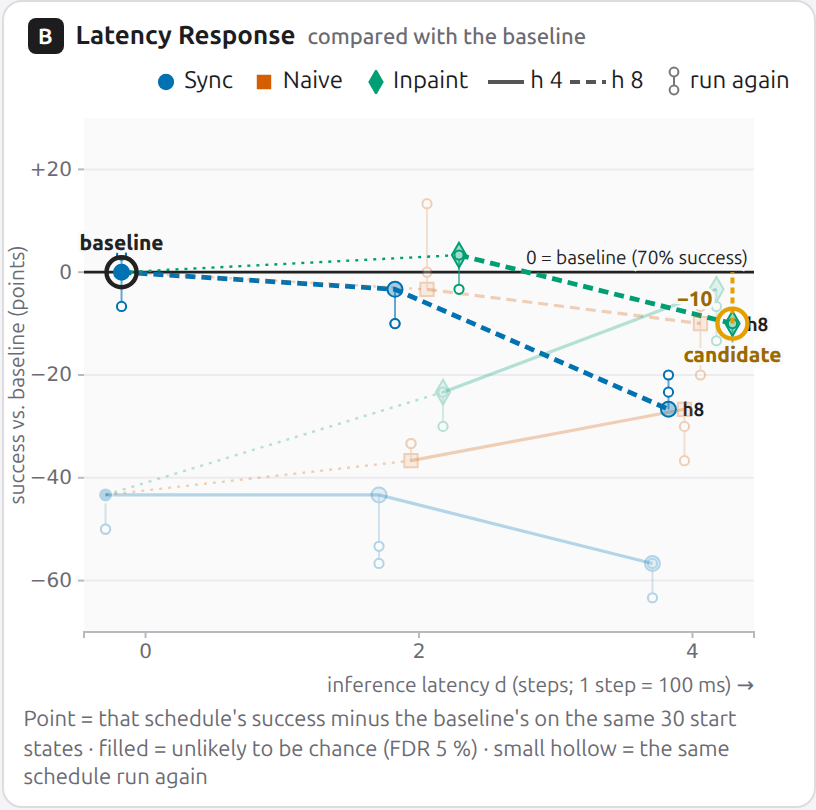
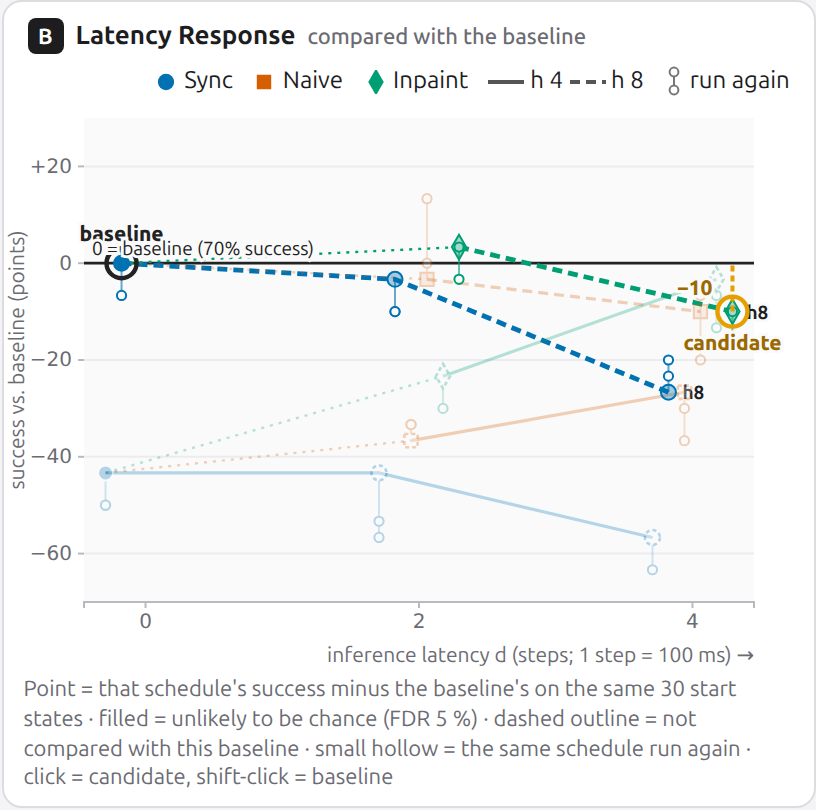
Review 4 fixes: wording that matches the comparison rule, fill = significance only, readable at 1280 px
- A/B: a non-significant pair says "not established with 30 start states (q = …)" and whether the re-runs point the same way, instead of "within chance"
- A: the "not compared" reason states the actual rule (same latency, or across latencies the same h with the same strategy or d = 0); FDR legend hidden when nothing is tested; cost colour scale at the 75th percentile so one extreme schedule does not wash out the rest; shorter note so the matrix is readable at 1280x800
- B: fill means "tested and significant" only; pairs that are not compared are dashed outlines; zero-line label placed where no point is; shift-click named in the note
- refusal notice clears on the next deliberate change; guide defines chunk, h, inpaint and FDR and states the rule
- C header text over the median ticks; D jump label over the pusher; E threshold label halo; URL t clamped; true minus signs; min page width 1280 px

diff --git a/src/js/views/pairs.js b/src/js/views/pairs.js
@@ -20,9 +20,11 @@ function scale() {
   const key = `${DATA.task}|${state.metric}`;
   if (scaleCache.key !== key) {
     const ids = DATA.schedules.map((x) => x.schedule);
-    let mx = 1;
-    for (const a of ids) for (const b of ids) if (a < b && comparable(a, b)) mx = Math.max(mx, Math.abs(aggregate(b, state.metric, null, a).v));
-    scaleCache = { key, v: mx };
+    // 75th percentile of |difference| over the comparable pairs, so that one extreme schedule (Catch
+    // naive d4 h4 jumps) does not wash out every other cell; larger values take the end colour
+    const vs = [];
+    for (const a of ids) for (const b of ids) if (a < b && comparable(a, b)) vs.push(Math.abs(aggregate(b, state.metric, null, a).v));
+    scaleCache = { key, v: Math.max(1, d3.quantile(vs.sort(d3.ascending), 0.75)) };
   }
   return scaleCache.v;
 }
@@ -32,7 +34,7 @@ let root, svg, noteSel;
 export function initPairs() {
   root = d3.select("#pairs");
   svg = root.append("svg");
-  // hatch for the pairs that are not compared (differ in latency and in strategy or h)
+  // hatch for the pairs that are not compared (see data.comparable)
   svg.append("defs").append("pattern").attr("id", "nc").attr("patternUnits", "userSpaceOnUse").attr("width", 5).attr("height", 5)
     .attr("patternTransform", "rotate(45)").append("rect").attr("width", 1.2).attr("height", 5).attr("fill", "#d4d4da");
   noteSel = d3.select("#pairNote");
@@ -44,8 +46,8 @@ export function initPairs() {
   seg.selectAll("button").data([null, 2, 4]).join("button").text((d) => (d === null ? "all latencies" : `d = ${d}`))
     .on("click", (ev, d) => update({ dfocus: d }));
   ctr.select(".plgwrap").html(`<span class="plg" title="candidate − baseline, percentage points of success on the same start states"><span class="it"><span class="lo"></span> <span class="ramp"></span> <span class="hi"></span></span>
-    <span class="it"><span class="fr"></span><span class="fam">unlikely chance (FDR 5 %)</span></span>
-    <span class="it" title="the two schedules differ in latency d (which you cannot choose) and also in h or in strategy, so a difference could not be attributed to one cause"><span class="nc"></span>not compared</span>
+    <span class="it fritem"><span class="fr"></span><span class="fam">unlikely chance (FDR 5 %)</span></span>
+    <span class="it" title="compared: two schedules at the same latency d (a choice you can make), or the same strategy and h at two latencies (what more latency costs), or a schedule against d = 0 at the same h (how far it is from having no latency; at d = 0 all strategies are the same). Every other pair mixes two causes."><span class="nc"></span>not compared</span>
     <span class="it"><span class="cu"></span>current pair</span>
     <span class="it"><b>row</b>&nbsp;= baseline · <b>column</b>&nbsp;= candidate</span></span>`);
   bus.on("change.pairs", (keys) => {
@@ -81,7 +83,7 @@ function render() {
     cells.push({ r, c, v: a.v, lo: a.lo, hi: a.hi, n: a.n, f, sig: !!f && f.sig });
   }
   const M = scale(), Mt0 = METRICS[state.metric];
-  const lim = Mt0.pct ? "60" : `${Math.round(M)} px`;
+  const lim = Mt0.pct ? "60" : `${Math.round(M)} px or more`;
   d3.select("#pairControls .lo").text(isSuccess() ? `worse −${lim}` : `pays more +${lim}`);
   d3.select("#pairControls .hi").text(isSuccess() ? `+${lim} better` : `−${lim} pays less`);
   const col = (v) => {
@@ -89,12 +91,13 @@ function render() {
     return t >= 0 ? d3.interpolateRgb(MID, BETTER)(t) : d3.interpolateRgb(MID, WORSE)(-t);
   };
 
+  d3.select("#pairControls .fritem").style("display", isSuccess() && !seeds ? null : "none");
   d3.select("#pairControls .dseg").selectAll("button").classed("on", (d) => d === state.dfocus);
   d3.select("#pairControls .fam").attr("title", `exact McNemar test on the start states that flip, Benjamini–Hochberg corrected over the ${qValues().size} comparable pairs (false discovery rate 5 %)`);
   noteSel.html((state.blocked ? `<span class="moved">${state.blocked}</span> · ` : "") + (seeds
     ? `Cell = ${isSuccess() ? "success" : Mt0.btn.toLowerCase()} difference on the <b>${seeds.size} start states selected in C</b> · <b>no frames</b>: the selection was made from these outcomes, so testing it again would be circular (Esc clears)`
-    : `${isSuccess() ? `Cell = how much more often the candidate succeeds than the baseline on the same ${DATA.seeds.length} start states (number = points when there is room)`
-      : `Cell = how much less (purple) or more (grey) the candidate pays than the baseline: <b>${Mt0.label}</b>, mean over the same ${DATA.seeds.length} start states · no frames: only success is tested`} · <b>click a cell</b> to compare that pair · hatched = not compared (differ in latency <i>and</i> in h or strategy)`));
+    : `${isSuccess() ? `Cell = candidate's success minus the baseline's on the same ${DATA.seeds.length} start states`
+      : `Cell = how much less (purple) or more (grey) the candidate pays: <b>${Mt0.label}</b> · no frames: costs are not tested`} · <b>click a cell</b> to compare · hatched: see the legend`));
   const { w, h } = size(root.node());
   svg.attr("width", w).attr("height", h);
   const m = { l: 70, t: 50, r: 6, b: 4 };
@@ -154,8 +157,8 @@ function render() {
     showTip(ev, `<b>baseline</b> ${label(q.r.id)}<br><b>candidate</b> ${label(q.c.id)}<br>
       ${Mt.label}: ${fmtMetric(state.metric, aggregate(q.r.id, state.metric, seeds).v)} → ${fmtMetric(state.metric, aggregate(q.c.id, state.metric, seeds).v)}
       (paired ${fmtMetric(state.metric, q.v, true)}${rel ? "" : `, 95 % interval ${fmtMetric(state.metric, q.lo, true)} … ${fmtMetric(state.metric, q.hi, true)}`})<br>
-      ${rel ? `on the same start states: <b>${rel.gain} rescued</b>, <b>${rel.loss} lost</b> of ${rel.n} (McNemar p = ${rel.p < 0.001 ? "< 0.001" : rel.p.toFixed(3)}, corrected q = ${rel.q < 0.001 ? "< 0.001" : rel.q.toFixed(3)}) <br>${rel.chance}<br>` : ""}
-      ${!rel ? "costs are described, not tested: only success has a test" : seeds ? "no test on a selection made from the outcomes" : q.sig ? `<b>${better ? "candidate better" : "candidate worse"}, unlikely to be chance</b> (FDR 5 %)` : `difference within chance (after correcting for ${qValues().size} comparisons)`}<br><span class="k">click = compare this pair in all views</span>`);
+      ${rel ? `on the same start states: <b>${rel.gain} rescued</b>, <b>${rel.loss} lost</b> of ${rel.n} (McNemar p ${rel.p < 0.001 ? "< 0.001" : `= ${rel.p.toFixed(3)}`}, corrected q ${rel.q < 0.001 ? "< 0.001" : `= ${rel.q.toFixed(3)}`}) <br>${rel.chance}<br>` : ""}
+      ${!rel ? "costs are described, not tested: only success has a test" : seeds ? "no test on a selection made from the outcomes" : q.sig ? `<b>${better ? "candidate better" : "candidate worse"}, unlikely to be chance</b> (FDR 5 %)` : `<b>not established</b> with ${rel.n} start states (q = ${rel.q.toFixed(2)} after correcting for ${qValues().size} comparisons)${rel.agree ? ` · the re-runs point the same way (${rel.agree})` : ""}`}<br><span class="k">click = compare this pair in all views</span>`);
   }).on("mouseleave", hideTip)
     .on("click", (ev, q) => { if (!q.diag && !q.nc) { hideTip(); update({ ref: q.r.id, cand: q.c.id }); } });
 
@@ -168,7 +171,7 @@ function render() {
 
 }
 
-// Every comparable unordered pair of schedules (61 of the 91 for 14, see data.comparable) is one exact
+// Every comparable unordered pair of schedules (49 of the 91 for 14, see data.comparable) is one exact
 // McNemar test; the frames use Benjamini–Hochberg q-values over that family, so about 1 in 20 framed cells may be a false
 // discovery instead of 1 in 20 of all cells. Computed once per task on all start states.
 let qCache = { task: null, q: new Map() };
@@ -206,12 +209,16 @@ function rawFlips(r, c, seeds) {
   // the yardstick for chance: what a plain re-run of each schedule changes, and whether the
   // difference of the pair comes back when both schedules are run again
   const fr = rerunFlips(r, seeds), fc = rerunFlips(c, seeds);
-  const again = reruns(r).map((id, k) => [id, reruns(c)[k]]).filter(([a, b]) => a && b)
-    .map(([a, b]) => { const v = aggregate(b, "success_rate", seeds, a).v; return `${v > 0 ? "+" : v < 0 ? "−" : "±"}${Math.abs(Math.round(v * 100))}`; });
+  const againV = reruns(r).map((id, k) => [id, reruns(c)[k]]).filter(([a, b]) => a && b)
+    .map(([a, b]) => Math.round(aggregate(b, "success_rate", seeds, a).v * 100));
+  const again = againV.map((k) => `${k > 0 ? "+" : k < 0 ? "−" : "±"}${Math.abs(k)}`);
+  // do the re-runs show the same direction as run 0 (and not zero)?
+  const d0 = Math.sign(gain - loss);
+  const agree = d0 && againV.length && againV.every((k) => Math.sign(k) === d0) ? `${d0 > 0 ? "candidate better" : "candidate worse"} in all ${againV.length + 1} runs` : null;
   const f1 = (v) => (Number.isInteger(v) ? v : v.toFixed(1));
   const chance = fr === null || fc === null ? "no re-runs of these schedules yet"
     : `chance level: a plain re-run flips ${f1(fr)} start states of the baseline and ${f1(fc)} of the candidate${again.length ? ` · the same pair in the re-runs: <b>${again.join(", ")}</b> points` : ""}`;
-  return { gain, loss, n: S.length, chance, p: mcnemar(gain, loss) };
+  return { gain, loss, n: S.length, chance, agree, p: mcnemar(gain, loss) };
 }
 
 // exact two-sided McNemar test = binomial sign test on the discordant start states

diff --git a/src/js/views/response.js b/src/js/views/response.js
@@ -54,7 +54,7 @@ function points() {
     // its plain re-runs on the same scale: their success minus the baseline's (run 0)
     const re = reruns(s.schedule).map((k) => aggregate(k, state.metric, state.brushed).v).filter((v) => v !== null);
     out.push({ id: s.schedule, strat: s.strategy, d: s.latency, h: s.horizon, abs: a.v, n: a.n,
-      v: dl.v, re, reAbs: re, f, sig: isS() ? !!f && f.sig : true });
+      v: dl.v, re, reAbs: re, f, sig: isS() && !!f && f.sig, nt: !!f && !f.comparable });
   }
   return out;
 }
@@ -75,7 +75,7 @@ function render() {
   for (const p of pts) p.re = p.reAbs.map((v) => v - base);
   noteSel.html(state.brushed
     ? `${isS() ? "Success" : Mt.btn} minus the baseline's on the <b>${n} start states selected in C</b> (Esc clears)${isS() ? " · nothing filled: the selection was made from the outcomes" : ""}`
-    : `Point = that schedule's ${what} minus the baseline's on the same ${n} start states · ${isS() ? "filled = unlikely to be chance (FDR 5 %)" : `<b>${Mt.label}</b>: higher = pays more (costs are described, not tested)`} · small hollow = the same schedule run again`);
+    : `Point = that schedule's ${what} minus the baseline's on the same ${n} start states · ${isS() ? "filled = unlikely to be chance (FDR 5 %) · dashed outline = not compared with this baseline" : `<b>${Mt.label}</b>: higher = pays more (costs are described, not tested, so nothing is filled)`} · small hollow = the same schedule run again · click = candidate, shift-click = baseline`);
   const m = { l: 40, r: 30, t: 10, b: 34 };
   const x = d3.scaleLinear().domain([-0.45, LATENCIES[LATENCIES.length - 1] + 0.45]).range([m.l, w - m.r]);
   // the scale covers exactly 0 … 100 % success, shifted so that the baseline sits at 0
@@ -146,10 +146,11 @@ function render() {
     .attr("cy", (q) => y(q.v)).attr("r", 2.3).attr("fill", "#fafafb").attr("stroke", (q) => STRAT_COLOR[q.strat]).attr("stroke-width", 1);
   mk.select(".sym").attr("transform", (p) => `translate(0,${y(p.v)})`)
     .attr("d", (p) => d3.symbol(STRAT_SYMBOL[p.strat], 44)())
-    .attr("fill", (p) => STRAT_COLOR[p.strat])
-    .attr("fill-opacity", (p) => (p.sig || p.id === state.ref ? 1 : 0.35))
+    .attr("fill", (p) => (p.nt ? "#fafafb" : STRAT_COLOR[p.strat]))
+    .attr("fill-opacity", (p) => (p.nt ? 1 : p.sig || p.id === state.ref ? 1 : 0.35))
     .attr("stroke", (p) => (p.sig ? "#fff" : STRAT_COLOR[p.strat]))
-    .attr("stroke-width", 1);
+    .attr("stroke-dasharray", (p) => (p.nt ? "2 1.5" : null))
+    .attr("stroke-width", (p) => (p.nt ? 1.3 : 1));
   mk.select(".hit").attr("cy", (p) => y(p.v)).attr("r", 6).attr("fill", "transparent");
   mk.on("click", (ev, p) => (ev.shiftKey ? update({ ref: p.id }) : update({ cand: p.id })))
     .on("mouseenter", (ev, p) => { hoverStrat = p.strat; render(); })
@@ -186,11 +187,21 @@ function render() {
     .text((r) => (r.k === "cand" && Math.abs(y(0) - y(r.p.v)) > 16 ? pts100(r.p.v) : ""));
 
   // the zero-line label goes to the side away from the baseline's own point
-  const refP = pts.find((p) => p.id === state.ref);
-  const zLeft = refP && px(refP) > (m.l + w - m.r) / 2;
-  svg.selectAll("text.zl").data([0]).join("text").attr("class", "zl").attr("x", zLeft ? m.l + 4 : w - m.r - 3).attr("text-anchor", zLeft ? "start" : "end").attr("y", y(0) + (y(0) - m.t < 16 ? 12 : -4))
+  const zText = `0 = baseline (${fmtMetric(state.metric, base)}${isS() ? " success" : Mt.pct ? " idle" : " px"})`;
+  const zw = zText.length * 5.3;
+  const spots = [];
+  for (const below of [false, true]) for (const left of [true, false]) {
+    const ty = y(0) + (below ? 12 : -4);
+    if (ty - 10 < m.t || ty > h - m.b) continue;
+    const x0 = left ? m.l + 4 : w - m.r - 3 - zw;
+    const hits = pts.flatMap((p) => [p.v, ...p.re].map((v) => [px(p), y(v)]))
+      .filter(([qx, qy]) => qx > x0 - 7 && qx < x0 + zw + 7 && qy > ty - 15 && qy < ty + 6).length;
+    spots.push({ left, ty, hits });
+  }
+  const zs = spots.sort((a, b) => a.hits - b.hits)[0] ?? { left: true, ty: y(0) - 4 };
+  svg.selectAll("text.zl").data([0]).join("text").attr("class", "zl").attr("x", zs.left ? m.l + 4 : w - m.r - 3).attr("text-anchor", zs.left ? "start" : "end").attr("y", zs.ty)
     .attr("font-size", 9.5).attr("fill", COLOR.ref).attr("stroke", "#fafafb").attr("stroke-width", 3).attr("paint-order", "stroke")
-    .text(`0 = baseline (${fmtMetric(state.metric, base)}${isS() ? " success" : Mt.pct ? " idle" : " px"})`);
+    .text(zText);
   svg.selectAll("text.xt").data([0]).join("text").attr("class", "axis-title xt").attr("x", w - m.r).attr("y", h - 4)
     .attr("text-anchor", "end").text("inference latency d (steps; 1 step = 100 ms) →");
 }
@@ -201,7 +212,7 @@ function tipHtml(p) {
   else {
     html += `<br><span class="k">vs baseline:</span> <b>${pts100(p.v)} ${METRICS[state.metric].pct ? "points" : "px"}</b> <span class="k">on the same start states</span>`;
     if (p.f && !p.f.comparable) html += `<br>${p.f.gain} rescued, ${p.f.loss} lost · <b>not tested</b>: ${whyNot(state.ref, p.id)} (read it along its own line; it cannot be chosen as candidate)`;
-    else if (p.f) html += `<br>${p.f.gain} rescued, ${p.f.loss} lost (McNemar p ${p.f.p < 0.001 ? "< 0.001" : `= ${p.f.p.toFixed(3)}`}, corrected q ${p.f.q < 0.001 ? "< 0.001" : `= ${p.f.q.toFixed(3)}`}) · <b>${state.brushed ? "no test on a selection made from the outcomes" : p.sig ? "unlikely to be chance" : "within chance"}</b>`;
+    else if (p.f) html += `<br>${p.f.gain} rescued, ${p.f.loss} lost (McNemar p ${p.f.p < 0.001 ? "< 0.001" : `= ${p.f.p.toFixed(3)}`}, corrected q ${p.f.q < 0.001 ? "< 0.001" : `= ${p.f.q.toFixed(3)}`}) · <b>${state.brushed ? "no test on a selection made from the outcomes" : p.sig ? "unlikely to be chance" : `not established with ${p.f.n} start states`}</b>${!state.brushed && !p.sig && p.f.agree ? ` · the re-runs point the same way (${p.f.agree})` : ""}`;
   }
   if (p.reAbs.length) html += `<br><span class="k">the same schedule run again:</span> ${p.reAbs.map((v) => fmtMetric(state.metric, v)).join(", ")} <span class="k">(hollow marks)</span>`;
   if (p.strat !== "sync" && p.d === 0) html += `<br><span class="k">${missingReason(p.strat, 0, p.h)}</span>`;

diff --git a/src/index.html b/src/index.html
@@ -80,10 +80,10 @@
 <div id="guide" class="guide" hidden>
   <div class="guide-card">
     <h2>How to read LagLens</h2>
-    <p>A robot policy plans 16 moves at a time and needs time <i>d</i> to compute each plan. <span class="tS">Sync</span> waits while it thinks; <span class="tN">naive async</span> keeps moving and switches plans abruptly; <span class="tI">inpaint async</span> keeps moving and makes the new plan continue the old one.
+    <p>A robot policy plans 16 moves at a time (a <b>chunk</b>) and needs time <i>d</i> (latency, in steps of 100 ms) to compute each plan; the robot executes the first <i>h</i> moves (<b>horizon</b> 4 or 8) and then switches to the next plan. <span class="tS">Sync</span> waits while it thinks; <span class="tN">naive async</span> keeps moving and switches plans abruptly; <span class="tI">inpaint async</span> keeps moving and makes the new plan continue the old one (the start of the new plan is filled in from the old one).
       Every <b>schedule</b> (strategy × latency <i>d</i> × horizon <i>h</i>) was run from the <b>same 30 start states</b>, on two tasks: <b>PushT</b> (push a T-block onto a goal) and <b>Catch the ball</b> (touch a rolling ball within 8 s).</p>
     <ol>
-      <li><b>A Pair Overview</b>, start here: each cell compares two schedules (row = baseline, column = candidate). <span style="color:#5e3c99;font-weight:700">Purple</span> = the candidate succeeds more often on the same start states, grey = less; framed = unlikely to be chance. Hatched = not compared: the two differ in latency (which you cannot choose) and also in <i>h</i> or strategy. <b>Click a cell</b> to compare that pair.</li>
+      <li><b>A Pair Overview</b>, start here: each cell compares two schedules (row = baseline, column = candidate). <span style="color:#5e3c99;font-weight:700">Purple</span> = the candidate succeeds more often on the same start states, grey = less. Compared are schedules at the same latency (a choice you can make), the same strategy and <i>h</i> at two latencies (what more latency costs), and any schedule against <i>d</i> = 0 at the same <i>h</i> (at <i>d</i> = 0 all strategies are the same). The rest is hatched: it mixes two causes. On PushT, <i>h</i> alone matters a lot (sync at <i>d</i> = 0: 27 % at <i>h</i> = 4, 70 % at <i>h</i> = 8), which is why <i>h</i> is only compared with the same <i>h</i> across latencies. Framed = still unlikely to be chance after correcting for the 49 comparisons (false discovery rate 5 %). <b>Click a cell</b> to compare that pair.</li>
       <li><b>B</b>: every schedule against the chosen baseline (0 = baseline), by latency <i>d</i> and horizon <i>h</i>. Small hollow marks = the same schedule simply run again: the spread that chance alone produces.</li>
       <li><b>C</b>: the 30 start states of that pair, the ones that flip first. Narrow cells = the same schedule run again; <b>≈</b> = the outcome is not the same in every run. Right: what each schedule paid there (idle time, outdated plan, or jumps). Click a row to replay it.</li>
       <li><b>D</b>: the replay, baseline and candidate on one board, opened at the moment that most likely explains the pair: the plan being executed, where things were when it was planned, and jumps when the plan switches.</li>

diff --git a/src/js/views/seedtable.js b/src/js/views/seedtable.js
@@ -98,7 +98,7 @@ function render() {
   const solid = flipsN.filter((s) => !noisy.has(s)).length;
   const fr = rerunFlips(state.ref), fc = rerunFlips(state.cand), f1 = (v) => (Number.isInteger(v) ? v : v.toFixed(1));
   d3.select("#seedNote").html(`<b>${cnt.get("gain") || 0} rescued</b>, <b>${cnt.get("loss") || 0} lost</b> of ${DATA.seeds.length} start states
-    ${nRe ? `· <b>${solid} of these ${flipsN.length} flips</b> come back in all ${nRe + 1} runs of both schedules; <b>≈</b> marks the others · a plain re-run alone flips ${f1(fr)} (baseline) and ${f1(fc)} (candidate) start states` : ""}`);
+    ${nRe ? `· <b>${solid} of these ${flipsN.length} flips</b> come back in all ${nRe + 1} runs of both schedules; <b>≈</b> marks the others · <span style="white-space:nowrap">a plain re-run alone flips ${f1(fr)} (baseline) and ${f1(fc)} (candidate) start states</span>` : ""}`);
   const ck = costKey(), C = COSTS[ck], k = C.k;
   ctrSel.select(".ctext").html(`row = start state · <span class="sw okb"></span><span class="sw okc"></span> success under baseline / candidate, empty = failure${nRe ? " · narrow = run again" : ""} · right: what each run paid (<b>${C.btn.toLowerCase()}</b>)`);
   const { w, h } = size(root.node());
@@ -201,12 +201,14 @@ function render() {
   const med = (g, which) => d3.median(g.seeds, (s) => DATA.ep.get(which).get(s)[k]);
   const bh = svg.selectAll("g.band").data(bands, (g) => g.key).join((en) => {
     const q = en.append("g").attr("class", "band").style("cursor", "pointer");
-    q.append("rect").attr("class", "bb"); q.append("text").attr("class", "bt");
-    q.append("line").attr("class", "mr"); q.append("line").attr("class", "mc");
+    // the text is drawn over the median ticks with a halo, so a tick never strikes through it
+    q.append("rect").attr("class", "bb"); q.append("line").attr("class", "mr"); q.append("line").attr("class", "mc");
+    q.append("text").attr("class", "bt");
     return q;
   }).attr("transform", (g) => `translate(0,${g.y})`).raise();
   bh.select(".bb").attr("x", 2).attr("y", 1).attr("width", w - 4).attr("height", L.headH - 2).attr("rx", 3).attr("fill", "#f2f2f5");
   bh.select(".bt").attr("x", 6).attr("y", L.headH - 4).attr("font-size", 10).attr("font-weight", 700)
+    .attr("stroke", "#f2f2f5").attr("stroke-width", 4).attr("paint-order", "stroke").attr("stroke-linejoin", "round")
     .text((g) => { const z = g.seeds.filter((x) => noisy.has(x)).length; return `${g.name}  ${g.seeds.length}${z && (g.key === "gain" || g.key === "loss") ? `  (≈ ${z} not repeatable)` : ""}`; });
   for (const [cls, which, col] of [["mr", state.ref, COLOR.ref], ["mc", state.cand, COLOR.cand]]) {
     bh.select(`.${cls}`).attr("x1", (g) => x(med(g, which))).attr("x2", (g) => x(med(g, which))).attr("y1", 2).attr("y2", L.headH - 1)

diff --git a/src/js/views/timeline.js b/src/js/views/timeline.js
@@ -164,7 +164,7 @@ function render() {
   cg.select(".yax").attr("transform", `translate(${m.l},0)`).call(d3.axisLeft(yc).ticks(2).tickSize(3).tickFormat(ball ? (v) => `${v} px` : d3.format(".0%"))).call((q) => q.select(".domain").remove());
   cg.select(".xax").attr("transform", `translate(0,${covBot})`).call(d3.axisBottom(x).ticks(10).tickSize(3)).call((q) => q.select(".domain").attr("stroke", "#c9c9cf"));
   cg.select(".thr").attr("x1", m.l).attr("x2", w - m.r).attr("y1", yc(thr)).attr("y2", yc(thr)).attr("stroke", "#77777f").attr("stroke-dasharray", "4 3");
-  cg.select(".thrt").attr("x", m.l + 4).attr("y", yc(thr) - 3).attr("text-anchor", "start").text(ball ? "touch: within 40 px" : "success threshold 95 %");
+  cg.select(".thrt").attr("x", m.l + 4).attr("y", yc(thr) - 4).attr("stroke", "#fff").attr("stroke-width", 3).attr("paint-order", "stroke").attr("text-anchor", "start").text(ball ? "touch: within 40 px" : "success threshold 95 %");
   cg.select(".yt").attr("x", 4).attr("y", covTop - 8).text(ball ? "pusher–ball distance" : "block–goal coverage");
   svg.selectAll("text.xt").data([0]).join("text").attr("class", "xt axis-title").attr("x", w - m.r).attr("y", h - 2).attr("text-anchor", "end")
     .text("time step t (10 Hz) · drag = select window · click = move cursor");

diff --git a/src/js/views/workspace.js b/src/js/views/workspace.js
@@ -79,7 +79,11 @@ async function load() {
   slider.attr("max", maxN - 1);
   d3.select("#seedLabel").text(`start state ${state.seed}`);
   opened = keyMoment(eps.ref, eps.cand);
-  if (keepUrlT || state.win) { keepUrlT = false; render(); return; }
+  if (keepUrlT || state.win) {
+    keepUrlT = false;
+    if (state.t > maxN - 1) update({ t: maxN - 1 }); else render();  // a URL t past the end goes to the last step
+    return;
+  }
   const t0 = opened ? opened.t : 0;
   if (t0 !== state.t) update({ t: t0 }); else render();
 }
@@ -137,8 +141,8 @@ function render() {
     g.append("path").attr("class", "pathNow");
     g.append("path").attr("class", "pathWin");
     g.append("g").attr("class", "fan");
-    g.append("g").attr("class", "seam").attr("pointer-events", "none");
     g.append("circle").attr("class", "agent").attr("pointer-events", "none"); // agent and seam never block hover on plan points
+    g.append("g").attr("class", "seam").attr("pointer-events", "none");  // over the pusher, so its label stays readable
     return g;
   }).attr("opacity", lit);
   // the focused run is drawn on top

diff --git a/src/js/main.js b/src/js/main.js
@@ -21,7 +21,12 @@ function firstFlip(ref, cand) {
 // comparable is not applied and A says why; nothing is changed behind the user's back. A cell in A
 // sets both sides at once, so every comparable pair is one click away.
 function keepComparable(patch, st) {
-  if (!("ref" in patch) && !("cand" in patch)) return patch;
+  // the refusal note lasts until the next deliberate change (a seed, a selection, a time window, the
+  // question, the task or "my latency"); hovering and the replay moving its cursor keep it
+  if (!("ref" in patch) && !("cand" in patch)) {
+    const deliberate = ["seed", "brushed", "win", "metric", "task", "dfocus"].some((k) => k in patch);
+    return st.blocked && deliberate && !("blocked" in patch) ? { ...patch, blocked: null } : patch;
+  }
   const ref = patch.ref ?? st.ref, cand = patch.cand ?? st.cand;
   if (comparable(ref, cand)) return { ...patch, blocked: null };
   const out = { ...patch };

diff --git a/src/js/data.js b/src/js/data.js
@@ -55,8 +55,8 @@ export function comparable(a, b) {
 // why a pair is not compared, in words
 export function whyNot(a, b) {
   const A = DATA.schedById.get(a), B = DATA.schedById.get(b);
-  const also = [A.horizon !== B.horizon ? "h" : null, A.strategy !== B.strategy && A.latency && B.latency ? "strategy" : null].filter(Boolean).join(" and ");
-  return `they differ in latency d, which you cannot choose, and also in ${also}`;
+  if (A.horizon !== B.horizon) return `they differ in latency d and in h: compared across latencies are only schedules with the same h`;
+  return `they differ in latency d and in strategy, and neither is at d = 0: across latencies a strategy is compared with itself (what more latency costs) or with d = 0 (how far it is from having no latency)`;
 }
 // Plain re-runs of a schedule (same schedule and start states, new sampling noise): ids of its replicates.
 export function reruns(id) {

diff --git a/src/js/util.js b/src/js/util.js
@@ -37,9 +37,9 @@ export function applyTask(task) {
 export function fmtMetric(k, v, signed = false) {
   if (v === null || v === undefined || Number.isNaN(v)) return "–";
   const m = METRICS[k];
-  const s = signed && v > 0 ? "+" : "";
-  if (m.pct) return `${s}${Math.round(v * 100)}${signed ? " pt" : "%"}`;
-  return `${s}${Math.abs(v) >= 10 ? v.toFixed(0) : v.toFixed(1)}`;
+  const s = v > 0 ? (signed ? "+" : "") : v < 0 ? "−" : "", a = Math.abs(v);
+  if (m.pct) { const k = Math.round(a * 100); return `${k ? s : ""}${k}${signed ? " pt" : "%"}`; }
+  return `${s}${a >= 10 ? a.toFixed(0) : a.toFixed(1)}`;
 }
 
 // per-episode attributes on B's dumbbell axis (one per metric, see METRICS.epB)

diff --git a/src/css/style.css b/src/css/style.css
@@ -35,6 +35,7 @@ button.on { background: var(--ink); color: #fff; border-color: var(--ink); }
 .chip.cand { border-color: var(--cand); } .chip.cand .dot { background: var(--cand); }
 .actions { display: flex; gap: 6px; }
 
+body { min-width: 1280px; }  /* the five views need 1280 px; narrower windows scroll sideways instead of clipping */
 #app {
   height: calc(100vh - 48px); min-height: 760px; padding: 10px; display: grid; gap: 10px;
   grid-template-columns: minmax(760px, 57fr) minmax(500px, 43fr);

diff --git a/scripts/ui_test.py b/scripts/ui_test.py
@@ -61,15 +61,21 @@ with sync_playwright() as p:
     log.append(f"framed ordered cells: {nfr}")
     ok("A frames are corrected over the 49 comparable pairs (FDR): 20 framed ordered cells in PushT (10 pairs)", nfr == 20)
     nnc = pg.evaluate("[...document.querySelectorAll('#pairs rect.pc')].filter(r=>d3.select(r).datum().nc).length")
-    ok("A hatches the 42 pairs that differ in latency and in h or strategy (84 ordered cells), not clickable", nnc == 84)
+    ok("A hatches the 42 pairs that are not compared (84 ordered cells), not clickable", nnc == 84)
     ok("a pair with d = 0 is compared only at the same h", pg.evaluate("""(()=>{const c=[...document.querySelectorAll('#pairs rect.pc')].map(r=>d3.select(r).datum());
       const f=(a,b)=>c.find(q=>!q.diag&&q.r.id===a&&q.c.id===b); return !!f('sync_d0_h4','inpaint_d2_h8').nc && !f('sync_d0_h8','inpaint_d2_h8').nc;})()"""))
     pg.evaluate("window.LagLens.update({ref:'sync_d2_h4', cand:'inpaint_d2_h4'})"); pg.evaluate("window.LagLens.update({cand:'inpaint_d4_h8'})"); pg.wait_for_timeout(200)
     ok("a candidate that is not comparable with the baseline is refused, nothing is moved, and A says why",
        S("ref") == "sync_d2_h4" and S("cand") == "inpaint_d2_h4" and "not compared with the current baseline" in pg.inner_text("#pairNote"))
     ok("the header has no look-up menus: it only names the pair chosen in A", pg.locator("#topbar select").count() == 0 and "Inpaint async" in pg.inner_text("#candName"))
+    pg.evaluate("window.LagLens.update({seed:1003})"); pg.wait_for_timeout(200)
+    ok("the refusal notice is cleared by the next deliberate change (here: another start state)", "not compared with the current" not in pg.inner_text("#pairNote"))
+    pg.evaluate("window.LagLens.update({cand:'inpaint_d4_h8'})"); pg.wait_for_timeout(200)
     pg.evaluate("window.LagLens.update({cand:'naive_d2_h8'})"); pg.wait_for_timeout(200)
     ok("a comparable choice clears the notice", S("cand") == "naive_d2_h8" and "not compared with the current" not in pg.inner_text("#pairNote"))
+    pg.evaluate("window.LagLens.update({ref:'sync_d2_h4', cand:'inpaint_d2_h4'})"); pg.wait_for_timeout(300)
+    ok("B draws the schedules that are not compared with the baseline as dashed outlines, and fills only tested differences",
+       pg.evaluate("[...document.querySelectorAll('#response g.pm path.sym')].filter(p=>p.getAttribute('stroke-dasharray')).length") > 0)
     pg.evaluate("window.LagLens.update({ref:'sync_d4_h8', cand:'naive_d4_h8'})"); pg.wait_for_timeout(200)
     pg.wait_for_timeout(300)
     # B follows A: 0 = the chosen baseline, every schedule re-compared against it
